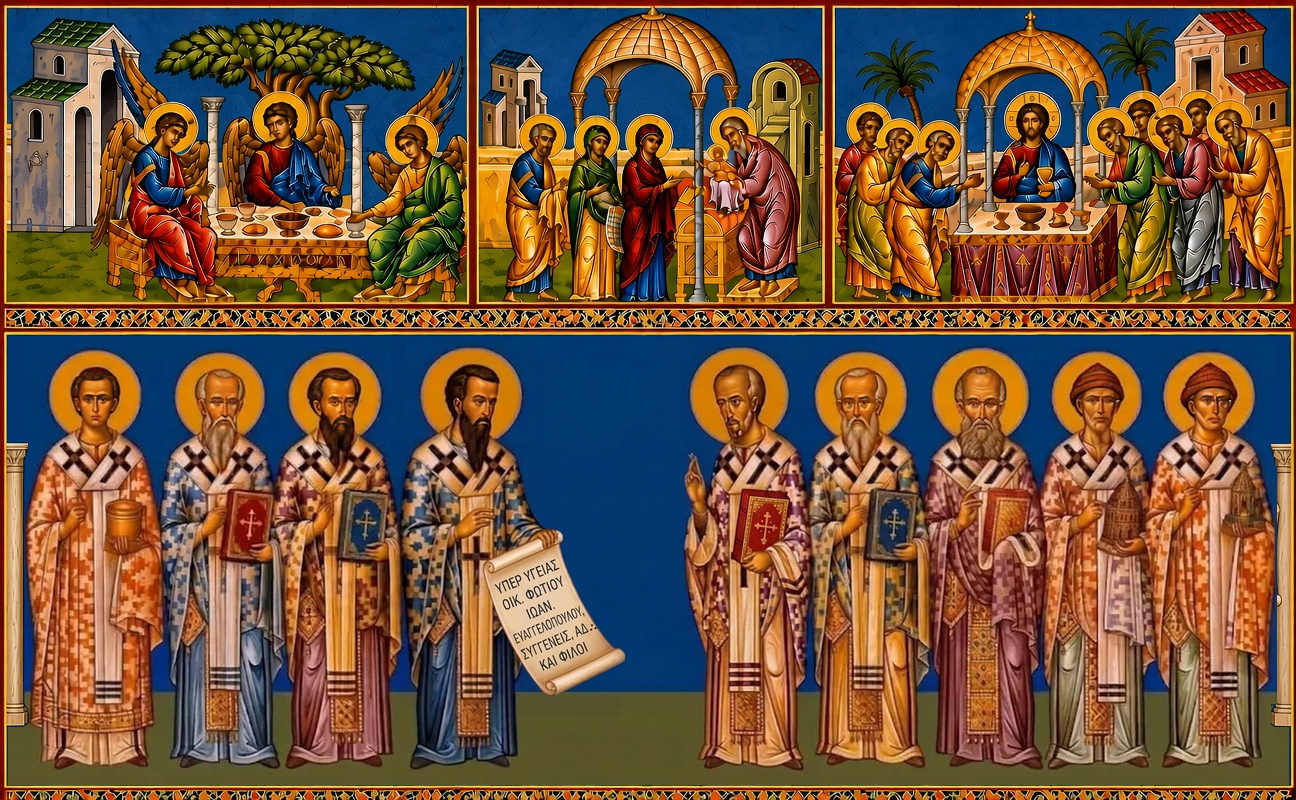
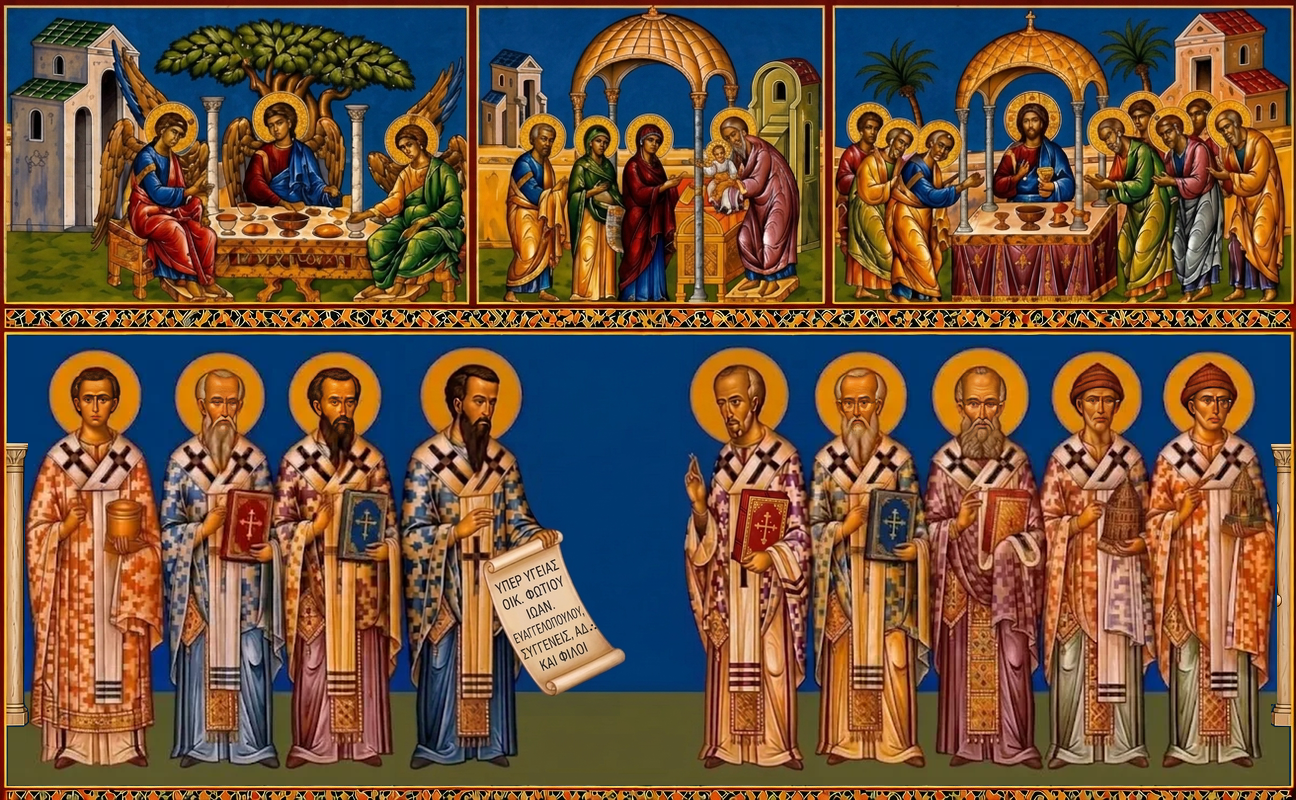
feat: add top scenes source and update compositor
Incorporate a new source plate for the upper icon scenes and refine the compositing logic to capture the original diptych state before applying swaps.

Changed region(s): [[0.0, 0.0, 1.0, 0.375]]

diff --git a/src/App.tsx b/src/App.tsx
@@ -26,6 +26,7 @@ import {
 
 const SAINTS_SRC = '/assets/aistudio/saints_450d968e.webp';
 const DIPTYCH_SRC = '/assets/aistudio/leave-only-two-kiones_47e2e67d.jpg';
+const TOP_SCENES_SRC = '/assets/aistudio/image_715ac347_21f298fc.jpg';
 const PREBUILT_COMPOSITE_SRC = '/assets/swapped-icon.png';
 const PRINT_MASTER_3X_SRC = '/assets/print-master-3x.jpg';
 
@@ -385,9 +386,22 @@ export default function App() {
               )}
 
               {viewMode === 'sources' && (
-                <div className="grid grid-cols-1 md:grid-cols-2 gap-4 bg-[#1C1917] p-4">
+                <div className="grid grid-cols-1 md:grid-cols-3 gap-4 bg-[#1C1917] p-4">
                   <div className="space-y-2">
-                    <div className="aspect-[16/9] overflow-hidden bg-[#0D1117]">
+                    <div className="aspect-[16/10] overflow-hidden bg-[#0D1117]">
+                      <img
+                        src={TOP_SCENES_SRC}
+                        alt="Source plate supplying the upper three scenes"
+                        referrerPolicy="no-referrer"
+                        className="h-full w-full object-contain"
+                      />
+                    </div>
+                    <p className="text-xs text-[#D6D3D1] font-mono tabular-nums">
+                      top scenes · 1312 × 810 px
+                    </p>
+                  </div>
+                  <div className="space-y-2">
+                    <div className="aspect-[16/10] overflow-hidden bg-[#0D1117]">
                       <img
                         src={SAINTS_SRC}
                         alt="Original saints.webp featuring nine standing saints"
@@ -403,7 +417,7 @@ export default function App() {
                     <div className="aspect-[16/10] overflow-hidden bg-[#0D1117]">
                       <img
                         src={DIPTYCH_SRC}
-                        alt="Original second diptych plate with three upper scenes and two flanking columns"
+                        alt="Original second diptych plate with two flanking columns"
                         referrerPolicy="no-referrer"
                         className="h-full w-full object-contain"
                       />
@@ -923,19 +937,36 @@ export default function App() {
             </h2>
           </div>
 
-          <div className="grid grid-cols-1 md:grid-cols-2 gap-8">
+          <div className="grid grid-cols-1 md:grid-cols-3 gap-6">
             <figure className="border border-[#DFD8CA] bg-[#F7F4EE] p-4">
-              <div className="aspect-[16/9] overflow-hidden bg-[#1C1917]">
+              <div className="aspect-[16/10] overflow-hidden bg-[#1C1917]">
                 <img
-                  src={SAINTS_SRC}
-                  alt="Source Plate I: Nine standing saints"
+                  src={TOP_SCENES_SRC}
+                  alt="Source Plate I: Replacement upper scenes"
                   referrerPolicy="no-referrer"
                   className="h-full w-full object-contain"
                 />
               </div>
               <figcaption className="mt-3 flex items-center justify-between gap-4 text-xs text-[#57534E]">
                 <span className="font-serif italic">
-                  Fig. 2 — Plate I: Nine Standing Saints (saints.webp)
+                  Fig. 2 — Plate I: Upper Scenes Source
+                </span>
+                <span className="font-mono tabular-nums shrink-0">1312 × 810 px</span>
+              </figcaption>
+            </figure>
+
+            <figure className="border border-[#DFD8CA] bg-[#F7F4EE] p-4">
+              <div className="aspect-[16/10] overflow-hidden bg-[#1C1917]">
+                <img
+                  src={SAINTS_SRC}
+                  alt="Source Plate II: Nine standing saints"
+                  referrerPolicy="no-referrer"
+                  className="h-full w-full object-contain"
+                />
+              </div>
+              <figcaption className="mt-3 flex items-center justify-between gap-4 text-xs text-[#57534E]">
+                <span className="font-serif italic">
+                  Fig. 3 — Plate II: Nine Standing Saints (saints.webp)
                 </span>
                 <span className="font-mono tabular-nums shrink-0">2048 × 1144 px</span>
               </figcaption>
@@ -945,14 +976,14 @@ export default function App() {
               <div className="aspect-[16/10] overflow-hidden bg-[#1C1917]">
                 <img
                   src={DIPTYCH_SRC}
-                  alt="Source Plate II: Two-tier diptych with upper scenes and flanking columns"
+                  alt="Source Plate III: Diptych frame with two flanking columns"
                   referrerPolicy="no-referrer"
                   className="h-full w-full object-contain"
                 />
               </div>
               <figcaption className="mt-3 flex items-center justify-between gap-4 text-xs text-[#57534E]">
                 <span className="font-serif italic">
-                  Fig. 3 — Plate II: Original Diptych with Two Kiones
+                  Fig. 4 — Plate III: Frame &amp; Two Kiones
                 </span>
                 <span className="font-mono tabular-nums shrink-0">1296 × 800 px</span>
               </figcaption>

diff --git a/src/utils/iconCompositor.ts b/src/utils/iconCompositor.ts
@@ -59,11 +59,12 @@ export function renderCompositeToCanvas(
   const ctx = targetCanvas.getContext('2d', { willReadFrequently: true });
   if (!ctx) return;
 
-  // Base diptych (retains upper 3 scenes, ornate borders, outer frame)
+  // Capture original diptych for clean flanking kiones extraction, then draw swappedBaseImg (retains updated upper 3 scenes, ornate borders, outer frame)
   ctx.drawImage(diptychImg, 0, 0, W, H);
+  const origDiptych = new Uint8ClampedArray(ctx.getImageData(0, 0, W, H).data);
+  ctx.drawImage(swappedBaseImg, 0, 0, W, H);
   const outImgData = ctx.getImageData(0, 0, W, H);
   const out = outImgData.data;
-  const origDiptych = new Uint8ClampedArray(out);
 
   // Extract lower interior panel (y=336..784 -> 449px tall) from swappedBaseImg
   const panelH = 449;
